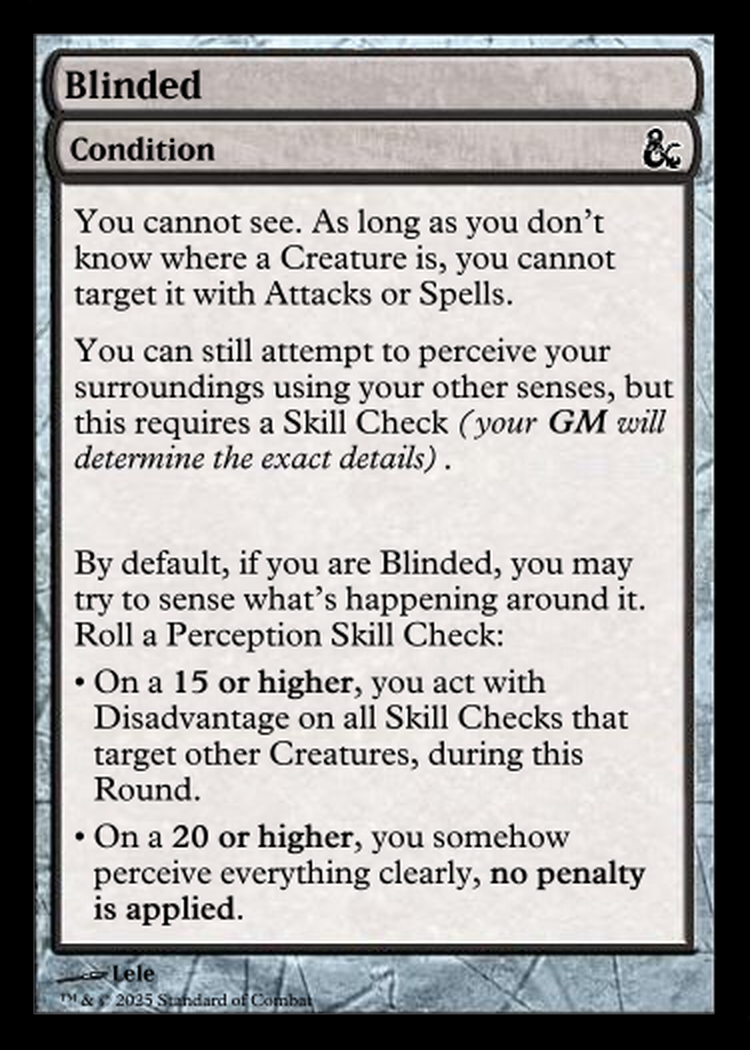
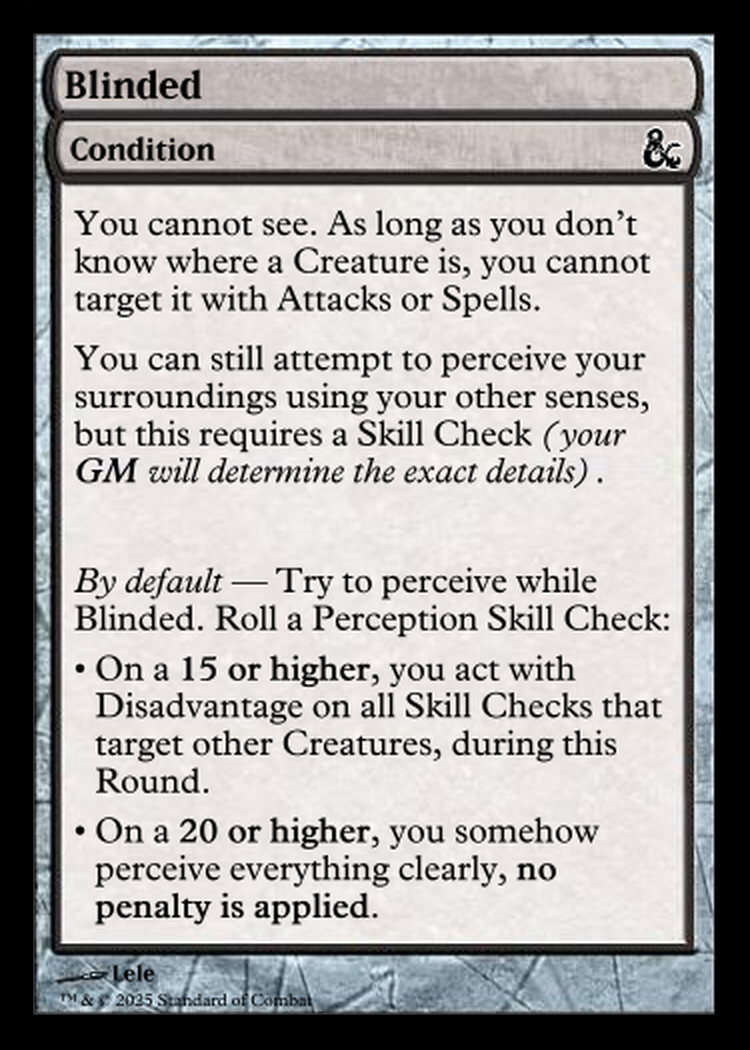
Quartz sync: Aug 6, 2025, 8:53 PM

Changed region(s): [[0.092, 0.5181, 0.8893, 0.8838], [0.092, 0.1829, 0.8893, 0.4571]]

diff --git a/content/Notes & Images/SoC • Rune - Time.md b/content/Notes & Images/SoC • Rune - Time.md
@@ -5,7 +5,7 @@ aliases:
 %%
 - ***Image***:<br>![[Pasted image 20250102221205.png|100]]
 - ***Info***: Rune - Time 
-- ***Description***:<br>**Num. of Duration Runes** | Example of Effect:<br>• **1** | _Delay_ — Choose a **specific time or action**. The Spell's Effect is delayed until the chosen time, or when the specific action takes place. If the Spell requires a target and you didn't choose one (_or couldn't_) when the Spell takes effect, it will target a random valid target. After **1 day** if the Spell wasn't yet Casted, it fizzles out.<br>• **2** | _From Dawn to Dusk_ — All the Spell's Effects that would last for **1 hour or more**, instead last for **1 day**.<br>• **4** | _Permanence_ — All Spell's Effects that would last for **1 hour or more**, instead become **permanent**. (_They can still be **Dispelled** or end due to other effects or conditions, just not due to the passage of time._)<br>• **5** | _Time Stop_ — Gain and perform **1 [[SoC • Rules Chapter - COMBAT|Action]]**. Other Creatures cannot perceive or interrupt this Action, and you automatically Succeed on any required [[SoC • Rules - Opposing Rolls|Opposing Rolls]] against targets **in your [[SoC • Rules Chapter - ZONES|Zone]]**.
+- ***Description***:<br>**Num. of Time Runes** | Example of Effect:<br>• **1** | _Delay_ — Choose a **specific time or action**. The Spell's Effect is delayed until the chosen time, or when the specific action takes place. If the Spell requires a target and you didn't choose one (_or couldn't_) when the Spell takes effect, it will target a random valid target. After **1 day** if the Spell wasn't yet Casted, it fizzles out.<br>• **2** | _From Dawn to Dusk_ — All the Spell's Effects that would last for **1 hour or more**, instead last for **1 day**.<br>• **4** | _Permanence_ — All Spell's Effects that would last for **1 hour or more**, instead become **permanent**. (_They can still be **Dispelled** or end due to other effects or conditions, just not due to the passage of time._)<br>• **5** | _Time Stop_ — Gain and perform **1 [[SoC • Rules Chapter - COMBAT|Action]]**. Other Creatures cannot perceive or interrupt this Action, and you automatically Succeed on any required [[SoC • Rules - Opposing Rolls|Opposing Rolls]] against targets **in your [[SoC • Rules Chapter - ZONES|Zone]]**.
 - ***Effects***: 
 - ***Limitations***: 
 - ***Color***: blue 

diff --git a/content/Notes & Images/SoC • Rules - Attack and Defensive Roll.md b/content/Notes & Images/SoC • Rules - Attack and Defensive Roll.md
@@ -4,7 +4,7 @@ aliases:
 ---
 %%
 - ***Type***: Rules
-- ***Description***:<br>_Attack Roll_ — An **[[SoC • Rules - Opposing Rolls|Opposing Roll]]** made to hit one or more Creatures, maybe with a [[SoC • Rules Chapter - BASIC EQUIPMENT|Weapon]], or effect of a [[SoC • Rules Chapter - SPELLS|Spell]]. All creatures involved roll a **d20** and add a certain [[SoC • Rules Chapter - SKILLS|Skill Modifier]] defined by the kind of **Attack**. If **a Defender's** result is **equal or higher** than **the Attackers's**: _the Attack hits him!_.<br><br>_Defensive Roll_ — When you **receive an Attack** that requires an **[[SoC • Rules - Opposing Rolls|Opposing Roll]]**, you'll make a **Defensive Roll** to try and avoid it.<br><br>_The Extremes_ — If **the Attacker** rolls a **natural 20** on the attack roll, then it is considered a [[SoC • Rules - Critical Success and Failure|Critical Success]], the Attack will hit, and the Defender cannot roll his [[SoC • Rules - Opposing Rolls|Opposing Roll]]. Otherwise if **the Attacker** rolls a **natural 1** the Attack Fails!
+- ***Description***:<br>_Attack Roll_ — _An **[[SoC • Rules - Opposing Rolls|Opposing Roll]]** made to hit one or more Creatures, maybe with a [[SoC • Rules Chapter - BASIC EQUIPMENT|Weapon]], or effect of a [[SoC • Rules Chapter - SPELLS|Spell]]_. All creatures involved roll a **d20** and add a certain [[SoC • Rules Chapter - SKILLS|Skill Modifier]] defined by the kind of **Attack**. If **a Defender's** result is **equal or higher** than **the Attackers's**: _the Attack hits him!_.<br><br>_Defensive Roll_ — When you **receive an Attack** that requires an **[[SoC • Rules - Opposing Rolls|Opposing Roll]]**, you'll make a **Defensive Roll** to try and avoid it.<br><br>_The Extremes_ — If **the Attacker** rolls a **natural 20** on the attack roll, then it is considered a [[SoC • Rules - Critical Success and Failure|Critical Success]], the Attack will hit, and the Defender cannot roll his [[SoC • Rules - Opposing Rolls|Opposing Roll]]. Otherwise if **the Attacker** rolls a **natural 1** the Attack Fails!
 - ***Flavor***: 
 - ***Rarity***: common
 - ***Color***: artifact 

diff --git a/content/SoC • Condition Card - Blinded.md b/content/SoC • Condition Card - Blinded.md
@@ -5,7 +5,7 @@ aliases:
 ---
 %%
 - ***Info***: Condition
-- ***Description***:<br>You cannot see. As long as you don’t know where a Creature is, you cannot target it with [[SoC • Rules Chapter - COMBAT|Attacks]] or [[SoC • Rules Chapter - SPELLS|Spells]].<br>You can still attempt to perceive your surroundings using your other senses, but this requires a [[SoC • Rules Chapter - SKILLS|Skill Check]] (_your **GM** will determine the exact details_).<br><br>By default, if you are Blinded, you may try to sense what’s happening around it. Roll a [[Perception]] [[SoC • Rules Chapter - SKILLS|Skill Check]]:<br>• On a **15 or higher**, you act with [[SoC • Rules - Advantage and Disadvantage|Disadvantage]] on all [[SoC • Rules - Skill Checks|Skill Checks]] that target other Creatures, during this [[SoC • Rules Chapter - COMBAT|Round]].<br>• On a **20 or higher**, you somehow perceive everything clearly, **no penalty is applied**.
+- ***Description***:<br>You cannot see. As long as you don’t know where a Creature is, you cannot target it with [[SoC • Rules Chapter - COMBAT|Attacks]] or [[SoC • Rules Chapter - SPELLS|Spells]].<br>You can still attempt to perceive your surroundings using your other senses, but this requires a [[SoC • Rules Chapter - SKILLS|Skill Check]] (_your **GM** will determine the exact details_).<br><br>_By default_ — Try to perceive while Blinded. Roll a [[Perception]] [[SoC • Rules Chapter - SKILLS|Skill Check]]:<br>• On a **15 or higher**, you act with [[SoC • Rules - Advantage and Disadvantage|Disadvantage]] on all [[SoC • Rules - Skill Checks|Skill Checks]] that target other Creatures, during this [[SoC • Rules Chapter - COMBAT|Round]].<br>• On a **20 or higher**, you somehow perceive everything clearly, **no penalty is applied**.
 - ***Flavor***: 
 - ***Color***: artifact, black
 - ***Rarity***: common

diff --git a/content/SoC • Condition Card - Invisible.md b/content/SoC • Condition Card - Invisible.md
@@ -4,7 +4,7 @@ aliases:
 ---
 %%
 - ***Info***: Condition
-- ***Description***:<br>You cannot be seen. As long as a Creature does not know where you are, you cannot become target of [[SoC • Rules Chapter - COMBAT|Attacks]] and [[SoC • Rules Chapter - SPELLS|Spells]].<br><br>By default, you may try to perceive an Invisible Creature (_if you know or suspect that there is one_). Roll a [[Perception]] [[SoC • Rules Chapter - SKILLS|Skill Check]]:<br>• On a **15 or higher**, you know in which [[SoC • Rules Chapter - ZONES|Zone]] the Creature is.<br>• On a **20 or higher**, you act with [[SoC • Rules - Advantage and Disadvantage|Disadvantage]] on all [[SoC • Rules - Skill Checks|Skill Checks]] against that Creature, during this [[SoC • Rules Chapter - COMBAT|Round]].<br>• On a **25 or higher**, you somehow perceive it clearly, **no penalty is applied**.
+- ***Description***:<br>You cannot be seen. As long as a Creature does not know where you are, you cannot become target of [[SoC • Rules Chapter - COMBAT|Attacks]] and [[SoC • Rules Chapter - SPELLS|Spells]].<br><br>_By default_ — You may try to perceive an Invisible Creature (_if you know or suspect that there is one_). Roll a [[Perception]] [[SoC • Rules Chapter - SKILLS|Skill Check]]:<br>• On a **15 or higher**, you know in which [[SoC • Rules Chapter - ZONES|Zone]] the Creature is.<br>• On a **20 or higher**, you act with [[SoC • Rules - Advantage and Disadvantage|Disadvantage]] on all [[SoC • Rules - Skill Checks|Skill Checks]] against that Creature, during this [[SoC • Rules Chapter - COMBAT|Round]].<br>• On a **25 or higher**, you somehow perceive it clearly, **no penalty is applied**.
 - ***Flavor***: 
 - ***Color***: artifact, black
 - ***Rarity***: common

diff --git a/content/Notes & Images/SoC • Core Ability - Wizard Savant.md b/content/Notes & Images/SoC • Core Ability - Wizard Savant.md
@@ -6,7 +6,7 @@ aliases:
 - ***Image***:<br>![[SoC • Core Ability - Wizard Savant (Image).png|222]]
 - ***Info***: Core Ability
 - ***Cost***: 5
-- ***Description***:<br>_You don’t just cast spells, you are a conduit of incredible power._ <br>Learn **1 [[SoC • Rules Chapter - RUNES|Rune]] of your choice**. (_Once learned, a Rune can be reused any number of times._)<br><br>Whenever you cast a [[SoC • Rules Chapter - SPELLS|Spell]], roll a **d100** and add your [[SoC • Rule - Anima|Anima]] [[SoC • Rules Chapter - SKILLS|Modifier]]. <br>On a result of **75 or higher**, for **1 [[SoC • Rules Chapter - COMBAT|Round]]**, any time the Spell would require a [[SoC • Rules Chapter - SKILLS|Skill Check]], automatically get the **maximum value** for that Roll. (_these are **NOT** counted as [[SoC • Rules - Critical Success and Failure|Critical Successes]]_).
+- ***Description***:<br>_You don’t just cast spells, you are a conduit of incredible power._ <br>Learn **1 [[SoC • Rules Chapter - RUNES|Rune]] of your choice**. (_Once learned, a Rune can be reused any number of times._)<br><br>Whenever you cast a [[SoC • Rules Chapter - SPELLS|Spell]], roll a **d100** and add your [[SoC • Rule - Anima|Anima]] [[SoC • Rules Chapter - SKILLS|Modifier]]. <br>On a result of **75 or higher**, for **1 [[SoC • Rules Chapter - COMBAT|Round]]**, any time the Spell would require a dice-roll, automatically get the **maximum value** for that Roll.<br>[[SoC • Rules Chapter - SKILLS|Skill Checks]] will result in a **20** result of a **d20**, however they are **NOT** counted as [[SoC • Rules - Critical Success and Failure|Critical Successes]].
 - ***Flavor***: 
 - ***Rarity***: rare 
 - ***Color***: blue 

diff --git a/content/Notes & Images/SoC • Optional Rules - Legion Commander.md b/content/Notes & Images/SoC • Optional Rules - Legion Commander.md
@@ -4,7 +4,7 @@ aliases:
 ---
 %%
 - ***Type***: Optional Rule
-- ***Description***:<br>_Optional Rule_ — Your **GM** will decide if they want to add this rule to the game.<br><br>[[SoC • Rules - Forgo an Action|Forgo an Action]]: **command ONE of your [[SoC • Rune - Summon|Summoned]] Creatures.**<br><br>**Exception:** You can command _multiple creatures at once_, **IF**:<br>• They were all summoned by **the same single spell** (_e.g., a spell that summons "three imps" all at once_).<br>• Even if you cast the same spell multiple time (_like casting "summon three imps" twice_), you can _still only command one group_ by [[SoC • Rules - Forgo an Action|Forgoing an Action]]. To command another group from a different casting, you'd need to give up another action.
+- ***Description***:<br>_Optional Rule_ — Your **GM** will decide if they want to add this rule to the game.<br><br>[[SoC • Rules - Forgo an Action|Forgo an Action]]: **command ONE of your [[SoC • Rune - Summon|Summoned]] Creatures.**<br><br>**Exception:** You can command _multiple creatures at once_, **If**:<br>• They were all summoned by **the same single spell** (_e.g., a spell that summons "three imps" all at once_).<br>• Even if you cast the same spell multiple time (_like casting "summon three imps" twice_), you can _still only command one group_ by [[SoC • Rules - Forgo an Action|Forgoing an Action]]. To command another group from a different casting, you'd need to give up another action.
 - ***Flavor***: _I suggest to use this rule!_
 - ***Rarity***: common
 - ***Color***: artifact, red 

diff --git a/content/Notes & Images/Intuition.md b/content/Notes & Images/Intuition.md
@@ -1,7 +1,7 @@
 %%
 - ***Image***:<br>![[Pasted image 20250527191244.png|222]]
 - ***Info***: Skill
-- ***Description***:<br>_The **Intuition** skill represents a character's ability to grasp underlying truths, and understand situations or individuals on a deeper, often subconscious, level. It's about sensing hidden motives, detecting lies, discerning true intentions, and having a "gut feeling" about things._<br><br>Use your **Intuition** to:<br>• **Decipher [[SoC • Rules Chapter - SCROLLS AND POTIONS]]**.<br>• Understand something that you might have missed.<br>• Use your **Intuition** to notice a Creature trying to [[Deception|Deceive]] you.
+- ***Description***:<br>_The **Intuition** skill represents a character's ability to grasp underlying truths, and understand situations or individuals on a deeper, often subconscious, level. It's about sensing hidden motives, detecting lies, discerning true intentions, and having a "gut feeling" about things._<br><br>Use your **Intuition** to:<br>• **Decipher [[SoC • Rules Chapter - SCROLLS AND POTIONS|Scrolls and Potions]]**.<br>• Understand something that you might have missed.<br>• Use your **Intuition** to notice a Creature trying to [[Deception|Deceive]] you.
 - ***Flavor***: _As a GM I often make my player roll an Intuition [[SoC • Rules Chapter - SKILLS|Check]] to help them remember key points in my story, or make their Character understand that an action that they are doing is not well thought out_.
 - ***Color***: blue 
 - ***Rarity***: common

diff --git a/content/Notes & Images/SoC • Core Ability - Uncanny Shot.md b/content/Notes & Images/SoC • Core Ability - Uncanny Shot.md
@@ -6,7 +6,7 @@ aliases:
 - ***Image***:<br>![[SoC • Core Ability - Uncanny Shot (Image).png|222]]
 - ***Info***: Core Ability
 - ***Cost***: 5
-- ***Description***:<br>Learn **1 [[SoC • Rules Chapter - RUNES|Rune]] of your choice**. (_Once learned, a Rune can be reused any number of times._)<br><br>Whenever you damage a Creature with a **[[SoC • Rules Chapter - BASIC EQUIPMENT|Ranged Weapon]]**, you can cast a [[SoC • Rules Chapter - SPELLS|Spell]] that costs **2 [[SoC • Rules Chapter - NEW CAMPAIGN|Hero Points]] or less**, targeting that Creature, as part of the same Action. (_You still pay the Spell's [[SoC • Rules Chapter - ENERGY|Energy]] cost_)
+- ***Description***:<br>Learn **1 [[SoC • Rules Chapter - RUNES|Rune]] of your choice**. (_Once learned, a Rune can be reused any number of times._)<br><br>Whenever you damage a Creature with a **[[SoC • Rules Chapter - BASIC EQUIPMENT|Ranged Weapon]]**, you can cast a [[SoC • Rules Chapter - SPELLS|Spell]] that combines **up to 2 [[SoC • Rules Chapter - RUNES|Runes]]**, targeting that Creature, as part of the same Action. (_You still pay the Spell's [[SoC • Rules Chapter - ENERGY|Energy]] cost_)
 - ***Effects***: 
 - ***Limitations***: 
 - ***Rarity***: rare 

diff --git a/content/Notes & Images/SoC • Optional Rule Card - Clear Commands.md b/content/Notes & Images/SoC • Optional Rule Card - Clear Commands.md
@@ -4,7 +4,7 @@ aliases:
 ---
 %%
 - ***Type***: Optional Rule
-- ***Description***:<br>_Optional Rule_ — Your **GM** will decide if they want to add this rule to the game.<br><br>You can [[SoC • Rules - Forgo an Action]] to impart a command to **one** of your **Companion/Summons**. You cannot command more than **one Companion/Summon** at a time.<br>_This way for each companion attack you need to **[[SoC • Rules - Forgo an Action|Forgo one of your Actions]]**, so it is much less problematic_.
+- ***Description***:<br>_Optional Rule_ — Your **GM** will decide if they want to add this rule to the game.<br><br>You can [[SoC • Rules - Forgo an Action|Forgo an Action]] to impart a command to **one** of your **Companion/Summons**. You cannot command more than **one Companion/Summon** at a time.<br>_This way for each companion attack you need to **[[SoC • Rules - Forgo an Action|Forgo one of your Actions]]**, so it is much less problematic_.
 - ***Flavor***: 
 - ***Rarity***: common
 - ***Color***: artifact, red 

diff --git a/content/SoC • Rules - Critical Success and Failure.md b/content/SoC • Rules - Critical Success and Failure.md
@@ -10,7 +10,7 @@ aliases:
 %%
 - ***Type***: Rules
 - ***Description***:<br>A **d20** roll of **20** scores a **Critical Success**, and a **1** a **Critical Failure**.<br>Each of these rolls will create a maximal version of Success or Failure.<br><br>_Critical Hit_ — If you roll a Critical Success to hit, and you would roll one ore more dices to deal damage, roll all of them twice and sum the results.
-- ***Flavor***: A Critical Failure can also be an optimal learning method, see [[SoC • Rules - Meditate and Train|Meditate and Train]].
+- ***Flavor***: A Critical Failure can also be an optimal learning method, as they say "[[SoC • Rules - What doesn't Kill You|What doesn't Kill You]]..."
 - ***Rarity***: common
 - ***Color***: artifact, multicolor
 %%

diff --git a/content/Notes & Images/SoC • Condition Card - Drowning.md b/content/Notes & Images/SoC • Condition Card - Drowning.md
@@ -5,7 +5,7 @@ aliases:
 ---
 %%
 - ***Info***: Condition
-- ***Description***:<br>While you are drowning, you loose **1 [[SoC • Rules Chapter - ENERGY|Energy]]**, **1 [[SoC • Rules Chapter - HEALTH|Health]]** at the end of every turn, and are also **[[Stunned]]** (_next round [[SoC • Rules - Prepare to Act|Prepare]] **one less Action**_)
+- ***Description***:<br>While you are Drowning, you loose **1 [[SoC • Rules Chapter - ENERGY|Energy]]**, **1 [[SoC • Rules Chapter - HEALTH|Health]]** at the end of every **[[SoC • Rules Chapter - COMBAT|Round]]**, and are also **[[Stunned]]** (_lose an [[SoC • Rules - Prepare to Act|Action]]_).
 - ***Flavor***: 
 - ***Color***: artifact, blue
 - ***Rarity***: common

diff --git a/content/SoC • Rules Chapter - RUNES.md b/content/SoC • Rules Chapter - RUNES.md
@@ -23,8 +23,6 @@ There are quite a few Rune, feel free to read all of them, ask your **GM** for s
 
 ![[SoC • Rune - Protection|Defensive]]
 
-![[SoC • Rune - Time|Duration]]
-
 ![[SoC • Rune - Dispel|Dispel]]
 
 ![[SoC • Rune - Dominate|Dominate]]
@@ -51,13 +49,15 @@ There are quite a few Rune, feel free to read all of them, ask your **GM** for s
 
 ![[SoC • Rune - Shapechange|Shapechange]]
 
+![[SoC • Rune - Space|Transport]]
+
 ![[SoC • Rune - Summon|Summon]]
 
 ![[SoC • Rune - Telepathy|Telepathy]]
 
-![[SoC • Rune - Transmute|Transmute]]
+![[SoC • Rune - Time|Duration]]
 
-![[SoC • Rune - Space|Transport]]
+![[SoC • Rune - Transmute|Transmute]]
 
 ![[SoC • Rune - Ward|Ward]]
 
